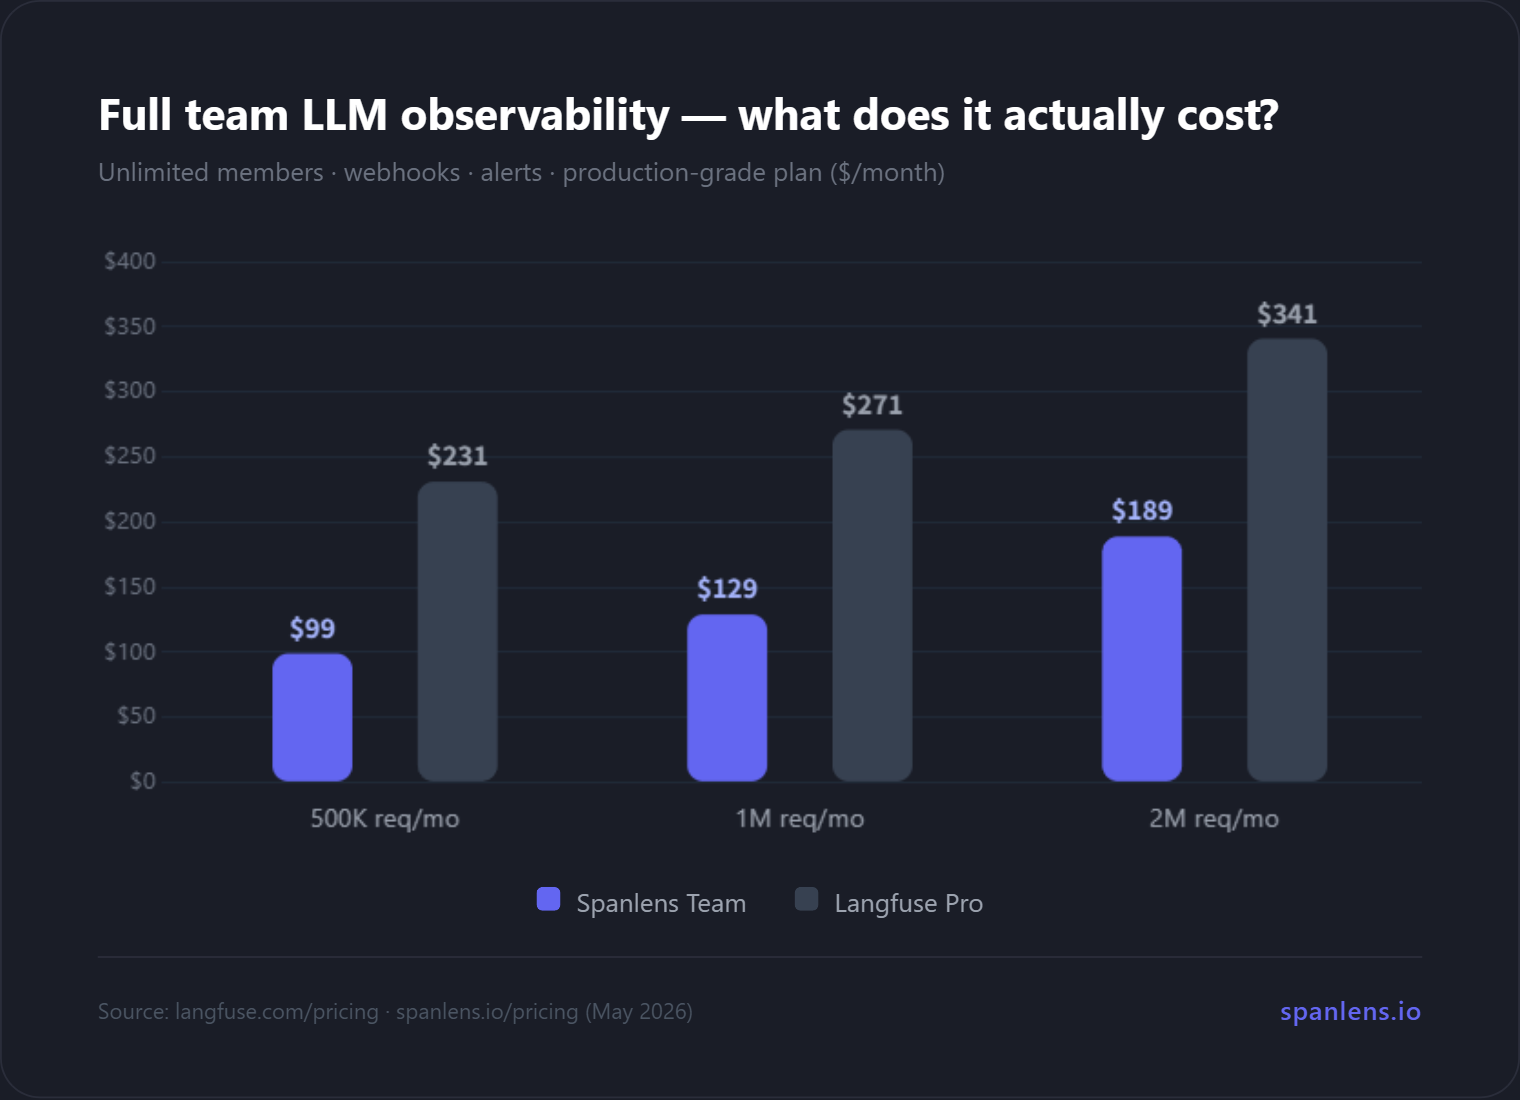
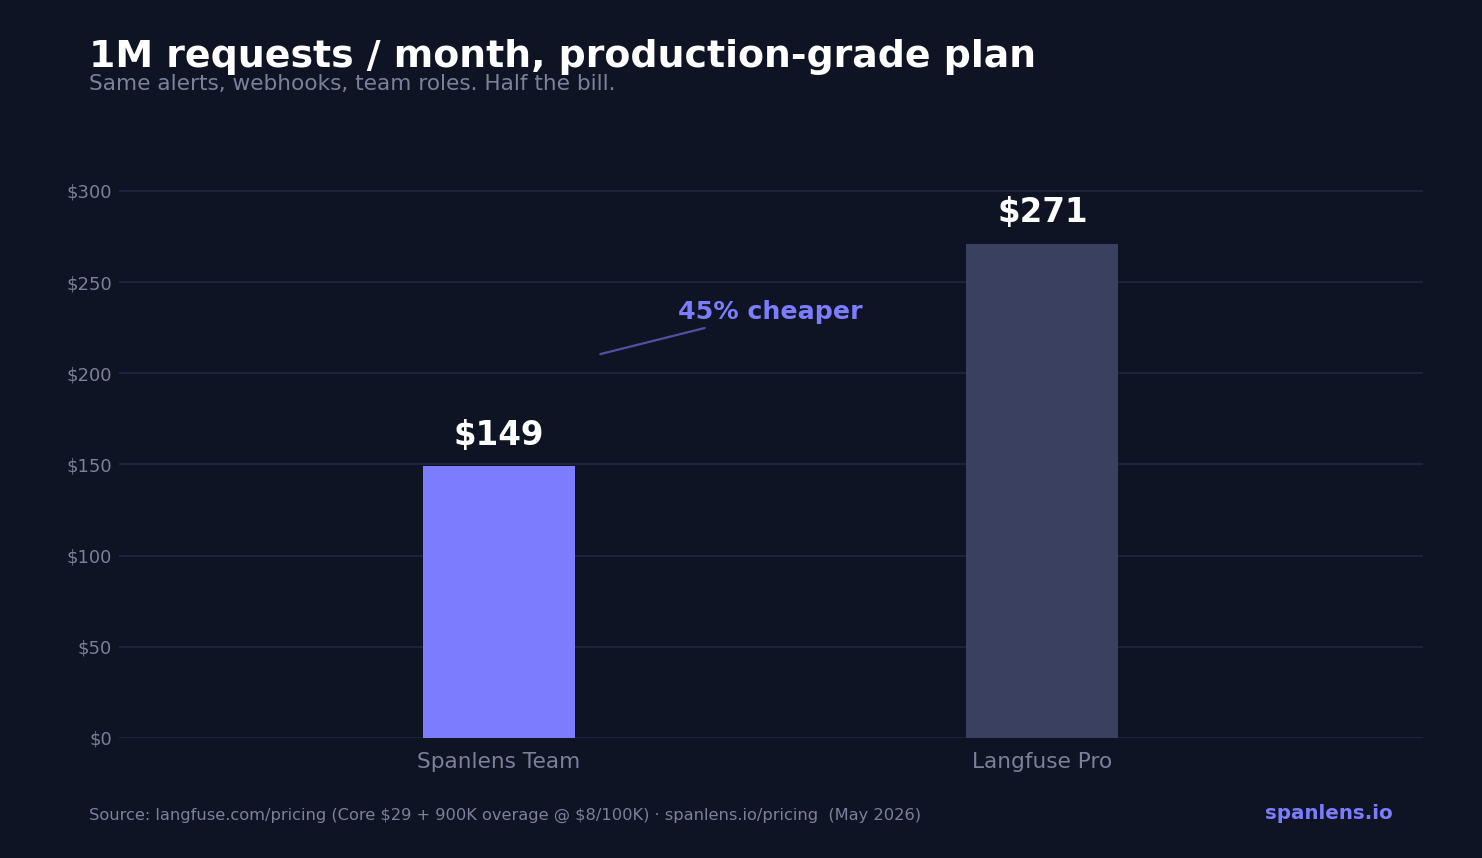
docs: align README with real product facts and rebuild pricing chart
- fix Team plan price: $129 -> $149 (matches billing-plans.ts, landing,
  pricing, and billing docs pages)
- rebuild pricing-vs-langfuse.png as single-bar 1M req/mo comparison
  (Spanlens Team $149 vs Langfuse Pro $271, 45% cheaper); old chart had
  three fabricated price points
- add Alerts feature row (Email/Slack/Discord webhooks, 15min cron)
- add Datasets row separated from Evals; expand Evals to mention
  Pearson-correlation against the judge
- rename "Model recommendations" to "Savings (model recommendations)"
  so it matches the /savings dashboard
- broaden Data export row to list traces/anomalies/security endpoints
  and note server-side streaming for large exports
- add quota-policy callout (Free hard 429, paid soft+overage+cap) and
  Spanlens seat ladder (Free 1 / Pro 3 / Team 10 / Enterprise unlimited)
- add scripts/gen-pricing-chart.py so the chart is reproducible

diff --git a/scripts/gen-pricing-chart.py b/scripts/gen-pricing-chart.py
@@ -1,0 +1,101 @@
+"""Generate the README pricing comparison chart.
+
+Single-bar comparison at 1M req/mo:
+- Spanlens Team: $149/mo
+- Langfuse Pro:  $271/mo (Core $29 base + 9 × $8/100K overage)
+
+Style mirrors the previous chart: dark navy background, purple Spanlens bar,
+muted gray Langfuse bar, value labels on top of bars, source footer.
+"""
+
+import matplotlib.pyplot as plt
+import matplotlib.patches as mpatches
+from matplotlib.ticker import MultipleLocator
+
+plt.rcParams["text.parse_math"] = False
+
+BG = "#0f1424"
+PANEL = "#0f1424"
+TEXT = "#ffffff"
+SUBTLE = "#7a8199"
+GRID = "#1f2540"
+SPANLENS = "#7c7cff"
+LANGFUSE = "#3a4060"
+ACCENT = "#7c7cff"
+
+labels = ["Spanlens Team", "Langfuse Pro"]
+values = [149, 271]
+colors = [SPANLENS, LANGFUSE]
+
+fig, ax = plt.subplots(figsize=(11.4, 6.6), dpi=130)
+fig.patch.set_facecolor(BG)
+ax.set_facecolor(PANEL)
+
+x = list(range(len(labels)))
+bar_width = 0.28
+bars = ax.bar(x, values, color=colors, width=bar_width, zorder=3)
+ax.set_xlim(-0.7, 1.7)
+
+ax.set_ylim(0, 320)
+ax.yaxis.set_major_locator(MultipleLocator(50))
+ax.set_yticks([0, 50, 100, 150, 200, 250, 300])
+ax.set_yticklabels([f"${v}" for v in [0, 50, 100, 150, 200, 250, 300]])
+
+ax.set_xticks(x)
+ax.set_xticklabels(labels)
+
+ax.tick_params(axis="x", colors=SUBTLE, labelsize=12, pad=8, length=0)
+ax.tick_params(axis="y", colors=SUBTLE, labelsize=10, length=0)
+
+for spine in ax.spines.values():
+    spine.set_visible(False)
+
+ax.grid(axis="y", color=GRID, linewidth=1, zorder=1)
+ax.set_axisbelow(True)
+
+for bar, v in zip(bars, values):
+    ax.text(
+        bar.get_x() + bar.get_width() / 2,
+        v + 8,
+        f"${v}",
+        ha="center", va="bottom",
+        color=TEXT, fontsize=18, fontweight="bold",
+    )
+
+savings_pct = round((1 - values[0] / values[1]) * 100)
+ax.annotate(
+    f"{savings_pct}% cheaper",
+    xy=(0.18, (values[0] + values[1]) / 2),
+    xytext=(0.5, 230),
+    color=ACCENT, fontsize=14, fontweight="bold",
+    ha="center",
+    arrowprops=dict(arrowstyle="-", color=ACCENT, lw=1.2, alpha=0.6),
+)
+
+fig.suptitle(
+    "1M requests / month, production-grade plan",
+    x=0.06, y=0.955,
+    ha="left", color=TEXT, fontsize=21, fontweight="bold",
+)
+fig.text(
+    0.06, 0.895,
+    "Same alerts, webhooks, team roles. Half the bill.",
+    ha="left", color=SUBTLE, fontsize=12,
+)
+
+fig.text(
+    0.06, 0.045,
+    "Source: langfuse.com/pricing (Core $29 + 900K overage @ $8/100K) · spanlens.io/pricing  (May 2026)",
+    ha="left", color=SUBTLE, fontsize=9,
+)
+fig.text(
+    0.94, 0.045,
+    "spanlens.io",
+    ha="right", color=ACCENT, fontsize=11, fontweight="bold",
+)
+
+plt.subplots_adjust(left=0.08, right=0.96, top=0.82, bottom=0.14)
+
+out_preview = r"C:\Users\User\Documents\coding\Spanlens\.github\assets\pricing-vs-langfuse.preview.png"
+plt.savefig(out_preview, facecolor=BG, dpi=130)
+print(f"Saved: {out_preview}")

diff --git a/README.md b/README.md
@@ -28,14 +28,18 @@
 | Open source | ✅ MIT | ✅ MIT | ✅ MIT |
 | Self-hostable | ✅ Docker one-liner | ✅ | ✅ |
 | Free tier | 50K req/mo | 50K events/mo | 10K req/mo |
-| Team plan (1M req/mo) | **$129/mo** | $271/mo | ~$200/mo |
+| Team plan (1M req/mo) | **$149/mo** | $271/mo | ~$200/mo |
 | Agent tracing | ✅ | ✅ | ⚠ limited |
 | LLM-as-judge evals | ✅ | ✅ | ❌ |
 | PII + injection scan | ✅ | ❌ | ❌ |
 | Model recommendations | ✅ | ❌ | ❌ |
 | Prompt A/B experiments | ✅ | ✅ | ❌ |
 
-![Spanlens Team vs Langfuse Pro pricing](.github/assets/pricing-vs-langfuse.png)
+![Spanlens Team $149/mo vs Langfuse Pro $271/mo at 1M requests per month](.github/assets/pricing-vs-langfuse.png)
+
+**Predictable bills, no quota cliff.** Free hits a hard `429` at 50K requests so a runaway loop in dev can't cost you money. Paid plans use a soft limit with authorized overage (Pro: +$8 / 100K, Team: +$5 / 100K) up to a hard cap you control, so a traffic spike charges you fairly instead of dropping requests.
+
+**Seats**: Free 1 · Pro 3 · Team 10 · Enterprise unlimited. Unlimited projects on every paid tier.
 
 ---
 
@@ -99,17 +103,19 @@ Every request logged with model, provider, latency, tokens, cost, and full promp
 | **Cost tracking** | Per-request cost breakdown with prompt-cache pricing (Anthropic / OpenAI cache hits billed at their reduced rate), daily rollups, budget alerts |
 | **Per-end-user analytics** | Tag calls with `x-spanlens-user` (SDK: `withUser()` / `with_user()`) and the /users page shows per-user cost, tokens, errors, models, last seen |
 | **Anomaly detection** | 3σ deviations in latency, cost, or error rate vs. your 7-day baseline, with root-cause hints (token delta, HTTP status breakdown) |
+| **Alerts** | Threshold rules on budget, error rate, and p95 latency. Delivered via Email (Resend), Slack, or Discord webhooks. Evaluated on a 15-minute cron with at-least-once delivery |
 | **PII + prompt-injection scan** | Regex-based detection on request **and response** bodies; optional per-project blocking (422) for injections; instant alert emails to workspace owner |
-| **Model recommendations** | "Your gpt-4o calls look like classification. Try gpt-4o-mini" with estimated monthly savings |
+| **Savings (model recommendations)** | The `/savings` dashboard surfaces calls that match a cheaper model's profile ("Your gpt-4o calls look like classification. Try gpt-4o-mini") with estimated monthly savings |
 | **Prompt versioning + A/B** | Register prompt templates, run traffic-split experiments, compare versions side by side (latency / cost / error rate) |
 | **Prompts Playground** | Execute any prompt version with variable injection directly in the dashboard to see real cost and response before shipping |
-| **Evals & Experiments** | Build LLM-as-judge evaluators, create datasets, and run A/B experiments comparing two prompt versions; human annotation queue also included |
+| **Datasets** | Reusable (input, expected_output) test sets you can rerun against any prompt version or model. Powers offline evals and regression checks |
+| **Evals & Experiments** | Build LLM-as-judge evaluators, run A/B experiments comparing two prompt versions, and queue runs for human annotation with Pearson-correlation against the judge to measure reliability |
 | **Saved filters** | Pin frequently used request-log queries (model, status, cost range, tags) and share them across the workspace |
 | **Outbound webhooks** | Subscribe to `request.created` / `trace.completed` / `alert.triggered` events. Payloads are HMAC-signed via `X-Spanlens-Signature: sha256=…` so receivers can verify origin |
 | **OpenTelemetry / OTLP ingest** | `POST /v1/traces` accepts OTLP/HTTP JSON exports using the `gen_ai.*` semantic conventions, so you can drop in any OTel SDK without writing Spanlens-specific code |
 | **Provider-key security** | Weekly digest emails for stale (unused 90d+) provider keys + daily GitGuardian leak scan against your active keys, with per-key scan history |
 | **Privacy controls** | Per-request `x-spanlens-log-body: full \| meta \| none` header lets customers shrink what Spanlens stores (drop bodies, drop end-user IDs) without dropping the request itself |
-| **Data export** | Download request logs as CSV or JSON (`GET /api/v1/exports/requests?format=csv`) for offline analysis or BI tooling. Separate security export for flagged (PII / injection) calls |
+| **Data export** | CSV or JSON download for requests, traces, anomalies, and flagged security events (`GET /api/v1/exports/{requests,traces,anomalies,security}?format=csv`). Streamed server-side for 100K+ row pulls so big exports don't OOM |
 
 ---
 
